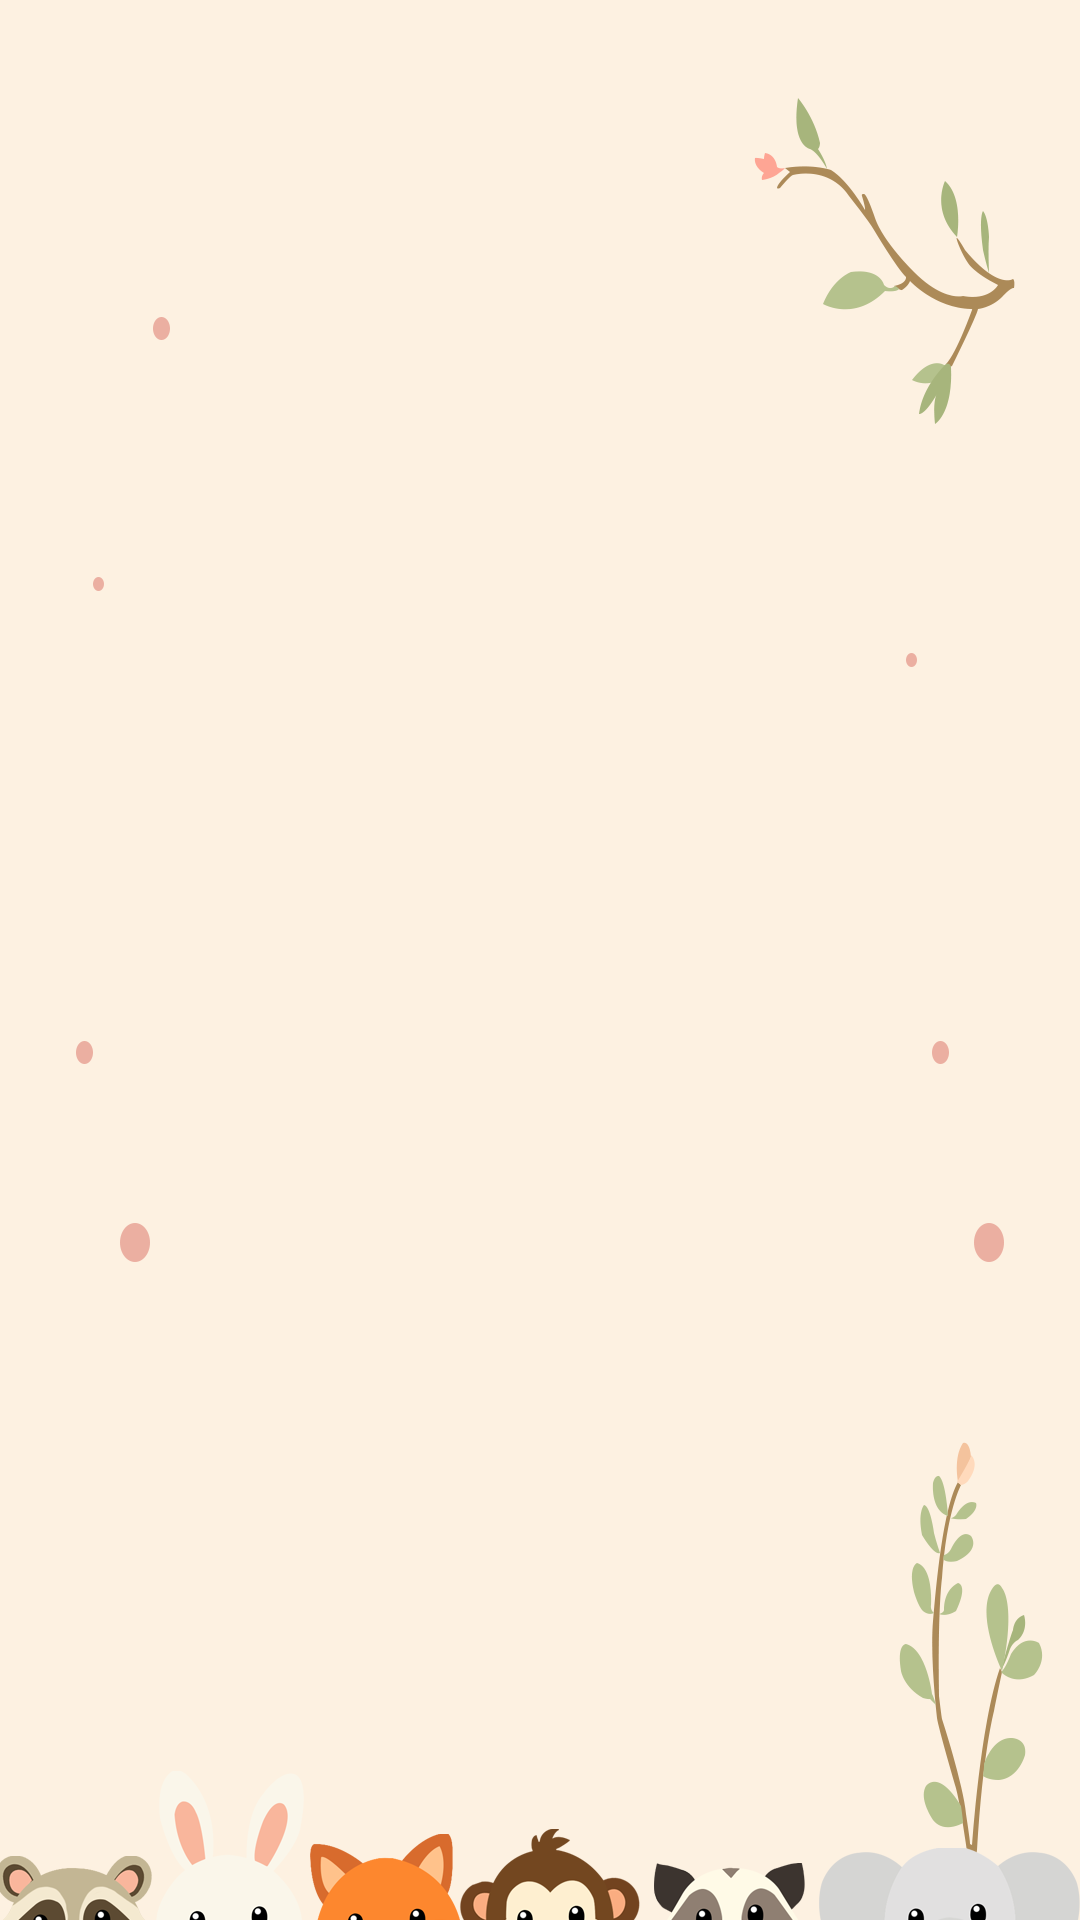
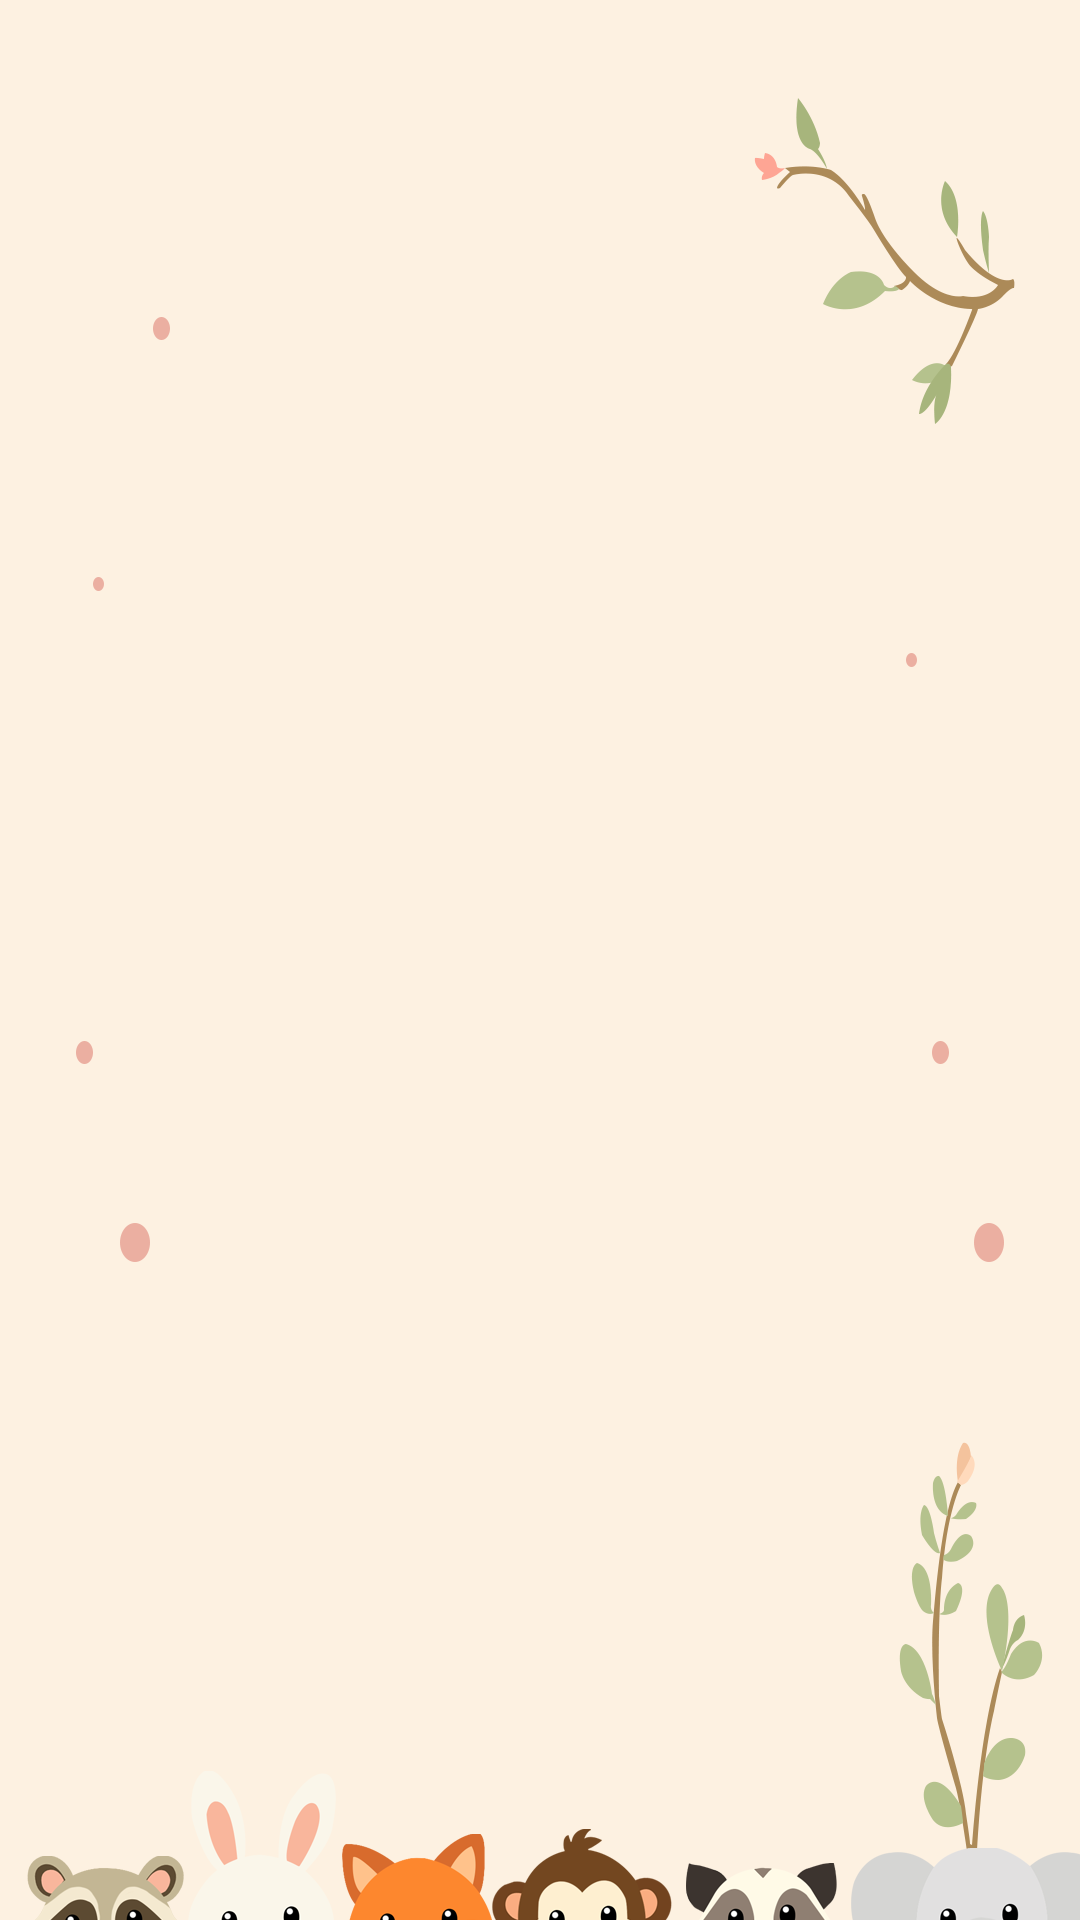
Login-Create-Main-Calendar-Edit-Friends

Changed region(s): [[0.0, 0.9375, 0.7944, 1.0], [0.825, 0.9375, 0.9472, 1.0], [0.9778, 0.9375, 1.0, 1.0]]

diff --git a/moodlings/app/onboarding/create.tsx b/moodlings/app/onboarding/create.tsx
@@ -123,7 +123,7 @@ export default function Index() {
 
     const confirmCreateUser = async () => {
         try {
-            // Get the current user
+            // Step 1: Get the current user's session (including email)
             const { data: userData, error: userError } = await supabase.auth.getUser();
 
             if (userError) {
@@ -133,14 +133,15 @@ export default function Index() {
             }
 
             const userId = userData.user?.id;
+            const userEmail = userData.user?.email; // Fetch the user's email from the session
 
-            if (!userId) {
-                console.error("User ID not found.");
-                Alert.alert("Error", "User ID not found.");
+            if (!userId || !userEmail) {
+                console.error("User ID or email not found.");
+                Alert.alert("Error", "User ID or email not found.");
                 return;
             }
 
-            // Save user info to Redux
+            // Step 2: Save user info to Redux
             dispatch(
                 setUserInfo({
                     name: name,
@@ -151,12 +152,13 @@ export default function Index() {
                 })
             );
 
-            // Save user info to Supabase
+            // Step 3: Save user info to Supabase (including email)
             const { data, error } = await supabase
                 .from("MoodUsers")
                 .insert([
                     {
-                        id: userId,
+                        id: userId, // Use user_id as the UUID from Auth
+                        email: userEmail, // Add the user's email
                         name: name,
                         avatar: currentAvatarType,
                         date_of_birth: date.toISOString(), // Convert date to ISO string
@@ -174,7 +176,7 @@ export default function Index() {
                 return;
             }
 
-            // Success: Redirect to the main screen
+            // Step 4: Success - Redirect to the main screen
             setIsConfirmationModalVisible(false);
             router.push("../../MainScreen/mainScreen");
         } catch (err) {
@@ -182,6 +184,7 @@ export default function Index() {
             Alert.alert("Error", "An unexpected error occurred. Please try again.");
         }
     };
+
 
     return (
         <SafeAreaView style={styles.mainContainer}>

diff --git a/moodlings/app/cardThemes/themes.ts b/moodlings/app/cardThemes/themes.ts
@@ -3,52 +3,74 @@
 export const THEMES = {
   babyblue: {
     textColor: '#ebf3f3',
+    welcomeColor: '#6fd6ff',
     zodiacImage: '#ebf3f3',
     avatarContainerColor: '#6fd6ff',
     moodContainerColor: '#8888df',
     cardImage: require('../../assets/cards/babyblue.png'),
+    topContainer: '#ecf2f5',
+    bottomContainer: '#c0d4db',
+
   },
   garden: {
     textColor: '#fffae7',
+    welcomeColor: '#bd8d56',
     zodiacImage: '#fffae7',
     avatarContainerColor: '#e7e9c2',
     moodContainerColor: '#fee6c4',
     cardImage: require('../../assets/cards/garden.png'),
+    topContainer: '#fffae7',
+    bottomContainer: '#fffae7',
   },
   grape: {
     textColor: '#332b32',
+    welcomeColor: '#3c2539',
     zodiacImage: '#332b32',
     avatarContainerColor: '#aea5ae',
     moodContainerColor: '#edcbcb',
     cardImage: require('../../assets/cards/grape.png'),
+    topContainer: '#686d83',
+    bottomContainer: '#322a31',
   },
   redish: {
     textColor: '#fdc7a5',
+    welcomeColor: '#ebf3f3',
     zodiacImage: '#c5653a',
     avatarContainerColor: '#ffbb89',
     moodContainerColor: '#c5653a',
     cardImage: require('../../assets/cards/redish.png'),
+    topContainer: '#fdc7a5',
+    bottomContainer: '#fdc7a5',
   },
   yogurt: {
     textColor: '#f9e5e7',
+    welcomeColor: '#c27a7e',
     zodiacImage: '#c27a7e',
     avatarContainerColor: '#e9c6ca',
     moodContainerColor: '#c27a7e',
     cardImage: require('../../assets/cards/yogurt.png'),
+    topContainer: '#f9e5e7',
+    bottomContainer: '#f9e5e7',
   },
   clouds: {
     textColor: '#f9e5e7',
+    welcomeColor: '#c27aad',
     zodiacImage: '#f9e5e7',
     avatarContainerColor: '#8087be',
     moodContainerColor: '#33305b',
     cardImage: require('../../assets/cards/clouds.png'),
+    topContainer: '#33305b',
+    bottomContainer: '#33305b',
   },
   dunes: {
     textColor: '#f9e5e7',
+    welcomeColor: '#c85342',
     zodiacImage: '#ac4e46',
     avatarContainerColor: '#fc7b51',
     moodContainerColor: '#ac4e46',
     cardImage: require('../../assets/cards/dunes.png'),
+    topContainer: '#33305b',
+    bottomContainer: '#0e1b2e',
   },
 
 };

diff --git a/moodlings/app/MainScreen/mainStyles.ts b/moodlings/app/MainScreen/mainStyles.ts
@@ -9,7 +9,6 @@ const styles = StyleSheet.create({
   },
   topContainer: {
     flex: 0.25,
-    backgroundColor: '#80aaff',
     justifyContent: 'center',
     alignItems: 'center',
   },
@@ -28,8 +27,7 @@ const styles = StyleSheet.create({
   },
   bottomContainer: {
     flexDirection: "row",
-    flex: 0.15, // 28% of the screen height
-    backgroundColor: '#80aaff',
+    flex: 0.21,
     justifyContent: 'center',
 
   },
@@ -37,6 +35,7 @@ const styles = StyleSheet.create({
   text: {
     top: "-10%",
     fontFamily: "fink-heavy",
+    textAlign: "center",
     fontSize: moderateScale(30),
     color: 'white',
   },
@@ -174,7 +173,7 @@ const styles = StyleSheet.create({
   calendarButton: {
     width: moderateScale(75),
     height: moderateScale(65),
-    marginTop: 20,
+    marginTop: 50,
     padding: 10,
     borderRadius: 5,
     alignItems: 'center',
@@ -189,7 +188,7 @@ const styles = StyleSheet.create({
   editButton: {
     width: moderateScale(60),
     height: moderateScale(65),
-    marginTop: 20,
+    marginTop: 50,
     padding: 10,
     borderRadius: 5,
     alignItems: 'center',
@@ -203,7 +202,7 @@ const styles = StyleSheet.create({
   socialButton: {
     width: moderateScale(100),
     height: moderateScale(65),
-    marginTop: 20,
+    marginTop: 50,
     padding: 10,
     borderRadius: 5,
     alignItems: 'center',
@@ -218,7 +217,7 @@ const styles = StyleSheet.create({
   giftsButton: {
     width: moderateScale(75),
     height: moderateScale(65),
-    marginTop: 20,
+    marginTop: 50,
     padding: 10,
     borderRadius: 5,
     alignItems: 'center',

diff --git a/moodlings/app/MainScreen/mainScreen.tsx b/moodlings/app/MainScreen/mainScreen.tsx
@@ -107,8 +107,8 @@ const MainScreen = () => {
   return (
     <View style={styles.mainContainer}>
       {/* Top Container */}
-      <View style={styles.topContainer}>
-        <Text style={styles.text}>Hi {userInfo.name}, how are you feeling today? </Text>
+      <View style={[styles.topContainer, { backgroundColor: THEMES[currentTheme].topContainer }]}>
+        <Text style={[styles.moodText, { color: THEMES[currentTheme].welcomeColor }]}>Hi {userInfo.name}, how are you feeling today? </Text>
         <TouchableOpacity style={styles.addMoodButton} onPress={handleAddMood}>
           <Text style={styles.addMoodText}>Add Mood</Text>
         </TouchableOpacity>
@@ -177,7 +177,7 @@ const MainScreen = () => {
       </Modal>
 
       {/* Bottom Container */}
-      <View style={styles.bottomContainer}>
+      <View style={[styles.bottomContainer, { backgroundColor: THEMES[currentTheme].bottomContainer }]}>
         <TouchableOpacity
           style={styles.calendarButton}
           onPress={() => router.push('../Calendar/calendar')}
@@ -205,5 +205,4 @@ const MainScreen = () => {
     </View>
   );
 };
-
 export default MainScreen;
